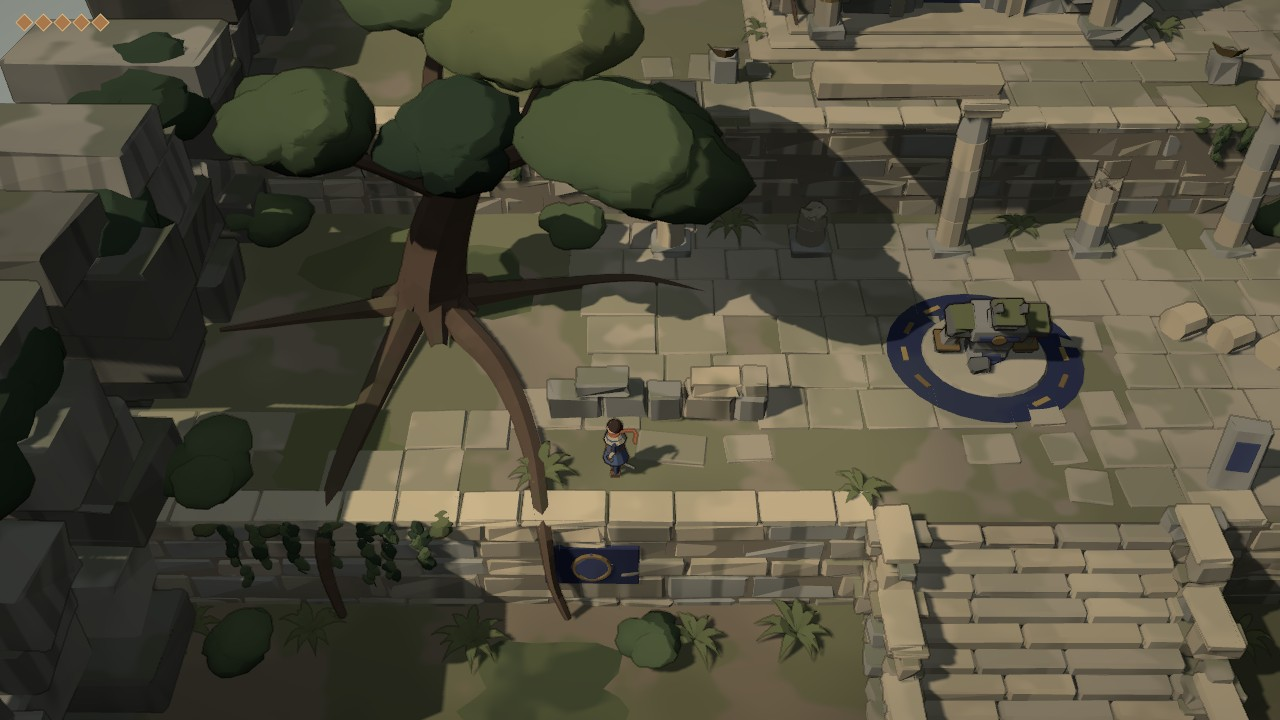
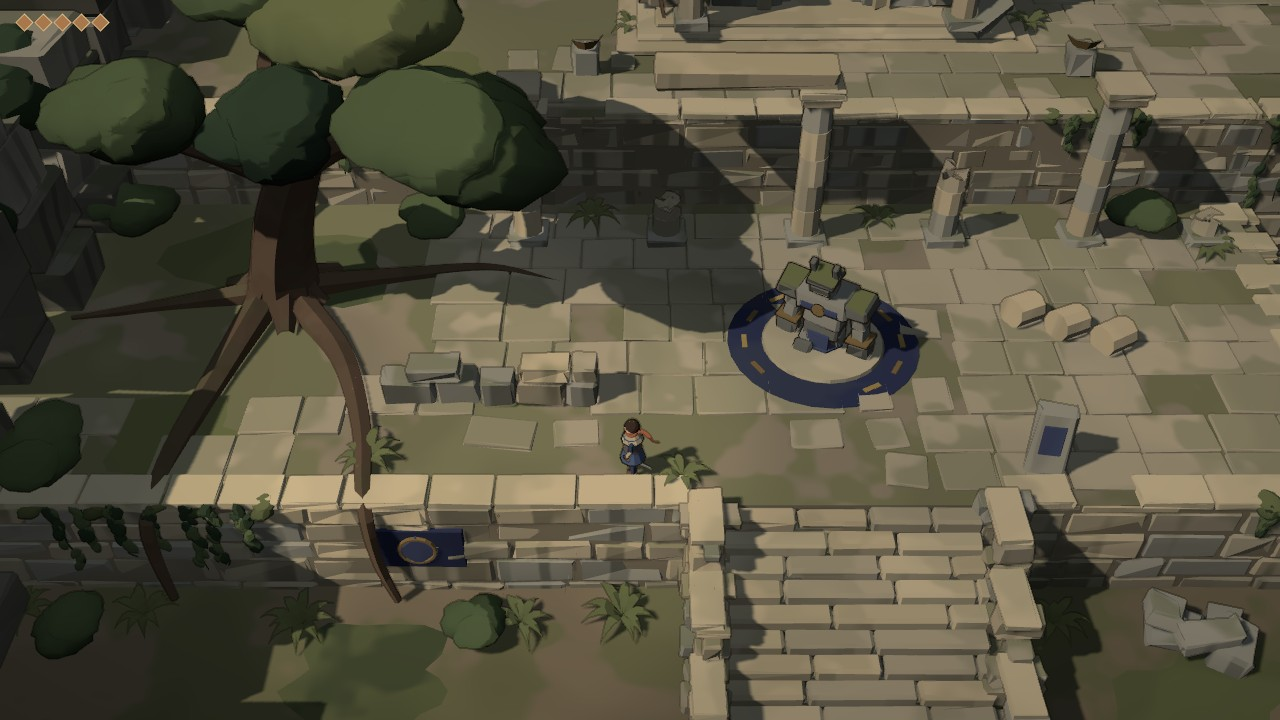
bell_muted_cel3d_01: hero pass 3 — authored shrine portal/collapse, light nudge, before/after captures, verdict
Claude-Session: https://claude.ai/code/session_01JKQiVz1qhZ6mWnVtESc2ft

diff --git a/experiments/bell_muted_cel3d_01/src/level.js b/experiments/bell_muted_cel3d_01/src/level.js
@@ -156,6 +156,39 @@ export function buildLevel(scene) {
     B.ground.add(g, mat4(x, y + 0.025, z, 0, rot, 0), tint(color, 0.05));
   }
 
+  // Extruded hand-drawn profile (front view, x/y) facing +z, centred on z
+  function slabXY(batch, pts, depth, x, y, z, color, rz = 0) {
+    const g = new THREE.ExtrudeGeometry(new THREE.Shape(pts.map(([a, b]) => new THREE.Vector2(a, b))), { depth, bevelEnabled: true, bevelThickness: 0.03, bevelSize: 0.03, bevelSegments: 1 });
+    g.translate(0, 0, -depth / 2);
+    batch.add(g, mat4(x, y, z, 0, 0, rz), color);
+  }
+  // Polygonal masonry face: wandering bed lines + slanted joints → irregular quads
+  function polyWall(x0, x1, y0, y1, zf, skip, topDrop) {
+    const bed = (row, x) => row === 0 ? 0 : 0.18 * Math.sin(x * 1.3 + row * 2.1) + 0.1 * Math.sin(x * 3.1 + row);
+    let rowY = y0, row = 0;
+    while (rowY < y1 - 0.2) {
+      const h = Math.min(y1 - rowY, rr(0.9, 1.35));
+      let xa = x0, xaT = x0;
+      while (xa < x1 - 0.05) {
+        const w = Math.min(rr(1.0, 2.1), x1 - xa);
+        let xb = xa + w, xbT = Math.min(x1, xb + rr(-0.35, 0.35));
+        if (x1 - xb < 0.5) { xb = x1; xbT = x1; }
+        const yA = rowY + bed(row, xa), yB = rowY + bed(row, xb);
+        const top = Math.min(y1, rowY + h);
+        const tA = top + bed(row + 1, xaT) - topDrop(xaT), tB = top + bed(row + 1, xbT) - topDrop(xbT);
+        const cx = (xa + xb + xaT + xbT) / 4, cy = (yA + yB + tA + tB) / 4;
+        if (!skip(cx, cy) && tA - yA > 0.25 && tB - yB > 0.25) {
+          const k = Math.min(1, (cy - y0) / (y1 - y0));
+          const col = new THREE.Color(pick([PAL.limeCool, PAL.limestone, 0xa89c82, 0x9a9584])).lerp(new THREE.Color(PAL.limeDark), (1 - k) * 0.35);
+          const sh = [[xa - cx + 0.03, yA - cy + 0.03], [xb - cx - 0.03, yB - cy + 0.03], [xbT - cx - 0.03, tB - cy - 0.03], [xaT - cx + 0.03, tA - cy - 0.03]];
+          slabXY(B.stone, sh, 0.85, cx, cy, zf - 0.42 + rr(0.0, 0.08), tint(col, 0.05), rr(-0.02, 0.02));
+        }
+        xa = xb; xaT = xbT;
+      }
+      rowY += h; row++;
+    }
+  }
+
   function pillar(x, y, z, h, { r = 0.42, broken = false, gold = false, cap = true, batch = B.stoneClean } = {}) {
     // plinth
     B.stone.add(stoneBlock(r * 2.7, 0.35, r * 2.7, { jitter: 0.05, chip: 0.4 }), mat4(x, y + 0.17, z), tint(PAL.limeCool));
@@ -376,23 +409,38 @@ export function buildLevel(scene) {
     }
     const P0 = T0 + 0.66;
     // façade wings (heavy coursing, larger blocks low down)
-    const wall = (from, to, y0, y1, at = F, opts = {}) => masonry({ axis: 'x', at, out: 1, from, to, y0, y1, depth: 0.9, coping: false, colors: [PAL.limeCool, PAL.limestone, 0xa89c82], len: [1.2, 2.4], course: [0.7, 1.0], ...opts });
-    wall(-7.5, -4.1, P0, P0 + 6.2);
-    wall(0.1, 3.5, P0, P0 + 6.2);
-    wall(-4.1, 0.1, P0 + 4.6, P0 + 6.2);
-    masonry({ axis: 'z', at: -7.5, out: -1, from: -23.8, to: F, y0: P0, y1: P0 + 6.2, coping: false, depth: 0.9 });
+    // Façade: polygonal "cyclopean" masonry (slanted joints, wandering bed lines,
+    // big irregular blocks) — deliberately unlike the courtyard's coursed walls.
+    const inPortal = (cx, cy) => {
+      if (cx > -4.55 && cx < 0.55 && cy < P0 + 4.95) return true;              // jambs + lintel
+      const ty = cy - (P0 + 4.85), half = 1.75 - ty * 1.15;                    // relieving triangle
+      return ty > -0.1 && ty < 1.55 && Math.abs(cx - sx) < half + 0.15;
+    };
+    const crownBreak = (cx) => cx > 0.9 ? (cx - 0.9) * 0.55 : 0;                // right side collapsed
+    polyWall(-7.5, 3.5, P0, P0 + 6.25, F, inPortal, crownBreak);    masonry({ axis: 'z', at: -7.5, out: -1, from: -23.8, to: F, y0: P0, y1: P0 + 6.2, coping: false, depth: 0.9 });
     masonry({ axis: 'z', at: 3.5, out: 1, from: -23.8, to: F, y0: P0, y1: P0 + 6.2, coping: false, depth: 0.9 });
     B.stone.add(new THREE.BoxGeometry(10.6, 6.2, 4.6), mat4(sx, P0 + 3.1, -21.4), PAL.limeDark);
     col.box(-7.5, -4.1, -24, F, T0, T0 + 14);
     col.box(0.1, 3.5, -24, F, T0, T0 + 14);
     col.box(-4.1, 0.1, -24, -18.7, T0, T0 + 14);
-    // stepped portal: three nested frames receding into darkness
-    for (let k = 0; k < 3; k++) {
-      const hw = 2.1 - k * 0.32, top = P0 + 4.6 - k * 0.4, z = F - 0.05 - k * 0.3;
-      B.stoneClean.add(stoneBlock(0.5, top - P0, 0.6, { chip: 0.25 }), mat4(sx - hw + 0.25, (P0 + top) / 2, z), tint(k ? PAL.limeCool : PAL.limestone, 0.04));
-      B.stoneClean.add(stoneBlock(0.5, top - P0, 0.6, { chip: 0.25 }), mat4(sx + hw - 0.25, (P0 + top) / 2, z), tint(k ? PAL.limeCool : PAL.limestone, 0.04));
-      B.stoneClean.add(stoneBlock(hw * 2, 0.55, 0.6, { chip: 0.2 }), mat4(sx, top - 0.27, z), tint(k ? 0xa99d84 : 0xc3b596, 0.04));
-    }
+    // Battered monolithic portal: tapering jambs, one huge cracked lintel.
+    const JB = [[-0.6, 0], [0.55, 0], [0.42, 4.0], [-0.55, 4.0]];             // left jamb profile (inner edge leans in)
+    slabXY(B.stone, JB, 0.95, -3.75, P0, F - 0.05, tint(0xb0a487, 0.03));
+    slabXY(B.stone, JB.map(([x, y]) => [-x, y]), 0.95, -0.25, P0, F - 0.05, tint(0xa59a80, 0.03));
+    // dark reveals: the inner faces of the opening fall into near-black
+    B.trim.add(new THREE.BoxGeometry(0.12, 4.0, 0.9), mat4(-3.15, P0 + 2.0, F - 0.45, 0, 0, -0.03), 0x2a2f2e);
+    B.trim.add(new THREE.BoxGeometry(0.12, 4.0, 0.9), mat4(-0.85, P0 + 2.0, F - 0.45, 0, 0, 0.03), 0x2a2f2e);
+    B.trim.add(new THREE.BoxGeometry(2.4, 0.12, 0.9), mat4(sx, P0 + 3.95, F - 0.45), 0x222726);
+    // lintel in two pieces: the right half has dropped and shifted along an old crack
+    slabXY(B.stone, [[-2.55, 0], [-0.1, 0], [0.05, 0.85], [-2.45, 0.9]], 1.1, sx, P0 + 4.0, F - 0.02, tint(0xbcae8f, 0.02));
+    slabXY(B.stone, [[0.0, 0], [2.5, 0.05], [2.4, 0.86], [0.12, 0.84]], 1.1, sx + 0.05, P0 + 3.94, F + 0.04, tint(0xb2a588, 0.02), -0.035);
+    // relieving triangle above the lintel: indigo field, bronze sun disc, carved rays
+    slabXY(B.trim, [[-1.6, 0], [1.6, 0], [0, 1.45]], 0.3, sx, P0 + 4.9, F - 0.12, PAL.indigoDeep);
+    slabXY(B.trim, [[-1.35, 0.08], [1.35, 0.08], [0, 1.25]], 0.3, sx, P0 + 4.9, F - 0.05, PAL.indigo);
+    B.gold.add(new THREE.CylinderGeometry(0.3, 0.3, 0.08, 14), mat4(sx, P0 + 5.36, F + 0.12, Math.PI / 2, 0, 0), PAL.gold);
+    for (let i = 0; i < 5; i++) { const a = 0.35 + i * 0.6; B.gold.add(new THREE.BoxGeometry(0.3, 0.05, 0.05), mat4(sx + Math.cos(a) * 0.52, P0 + 5.36 + Math.sin(a) * 0.44, F + 0.1, 0, 0, a), i === 2 ? PAL.gold : PAL.bronze); }
+    // worn threshold slab, darker and damp
+    B.stone.add(stoneBlock(2.6, 0.12, 1.3, { chip: 0.3, bevel: 0.3 }), mat4(sx, P0 + 0.04, F + 0.15), tint(0x8b8573));
     // dark interior volume behind the frames (reads as depth, not a painted door)
     B.trim.add(new THREE.BoxGeometry(3.0, 3.6, 0.2), mat4(sx, P0 + 1.8, -18.75), 0x262b2c);
     // sealed door slab: deep indigo with bronze seal
@@ -400,15 +448,20 @@ export function buildLevel(scene) {
     B.gold.add(new THREE.TorusGeometry(0.62, 0.07, 6, 24), mat4(sx, P0 + 2.0, -18.37), PAL.gold);
     B.gold.add(new THREE.TorusGeometry(0.3, 0.05, 6, 16), mat4(sx, P0 + 2.0, -18.37), PAL.bronze);
     B.gold.add(new THREE.BoxGeometry(0.06, 2.8, 0.04), mat4(sx, P0 + 1.7, -18.38), PAL.bronze);
-    // relief panel above the portal: indigo field, bronze sun-disc and rays
-    B.trim.add(new THREE.BoxGeometry(3.6, 1.2, 0.14), mat4(sx, P0 + 5.35, F + 0.05), PAL.indigo);
-    B.gold.add(new THREE.CylinderGeometry(0.34, 0.34, 0.08, 14), mat4(sx, P0 + 5.35, F + 0.14, Math.PI / 2, 0, 0), PAL.gold);
-    for (let i = 0; i < 8; i++) { const a = (i / 8) * Math.PI * 2; B.gold.add(new THREE.BoxGeometry(0.36, 0.06, 0.05), mat4(sx + Math.cos(a) * 0.62, P0 + 5.35 + Math.sin(a) * 0.42, F + 0.14, 0, 0, a), PAL.bronze); }
-    // cornice + corbelled stepped crown
-    B.stoneClean.add(stoneBlock(11.6, 0.45, 6.8, { chip: 0.3 }), mat4(sx, P0 + 6.42, -20.7), tint(PAL.limestone, 0.03));
-    const crown = [[9.6, 0.7, 5.6], [7.6, 0.7, 4.6], [5.4, 0.75, 3.6], [3.0, 0.8, 2.4]];
-    let cy = P0 + 6.65;
-    crown.forEach(([w, h, d], i) => { B.stoneClean.add(stoneBlock(w, h, d, { chip: 0.35 }), mat4(sx + (i === 3 ? 0.2 : 0), cy + h / 2, -20.8, 0, 0, i === 3 ? 0.05 : 0), tint(i % 2 ? PAL.limeCool : 0xb3a68a, 0.04)); cy += h; });
+    // cornice: intact on the left, broken off on the right; mossy ledges (B.stone = moss + streaks)
+    slabXY(B.stone, [[-5.8, 0], [1.4, 0], [1.1, 0.42], [-5.85, 0.48]], 6.8, sx, P0 + 6.2, -20.7, tint(PAL.limestone, 0.03));
+    slabXY(B.stone, [[1.4, 0], [3.0, 0.05], [2.7, 0.3], [1.6, 0.38]], 6.2, sx, P0 + 6.05, -20.8, tint(0xa99d84, 0.03), -0.06);
+    // corbelled crown: stepped on the left, collapsed on the right (uneven tops)
+    slabXY(B.stone, [[-4.9, 0], [0.9, 0], [0.4, 0.62], [-4.8, 0.7]], 5.4, sx, P0 + 6.66, -20.9, tint(PAL.limeCool, 0.03));
+    slabXY(B.stone, [[-3.9, 0], [-0.4, 0], [-0.9, 0.7], [-3.7, 0.66]], 4.4, sx, P0 + 7.32, -21.0, tint(0xb3a68a, 0.03));
+    slabXY(B.stone, [[-2.9, 0], [-1.3, 0], [-1.6, 0.6], [-2.7, 0.75]], 3.0, sx, P0 + 7.98, -21.1, tint(PAL.limeCool, 0.03));
+    // a crown stone slid off and lodged on the broken cornice end; two more fell to the terrace
+    B.stone.add(stoneBlock(1.3, 0.6, 1.0, { chip: 0.6 }), mat4(1.8, P0 + 6.6, -17.9, 0.2, 0.5, -0.45), tint(PAL.limeCool));
+    B.stone.add(stoneBlock(1.2, 0.65, 0.9, { chip: 0.7 }), mat4(4.3, T0 + 0.33, -15.0, 0.1, 0.9, 0.2), tint(0xa99d84));
+    B.stone.add(stoneBlock(0.8, 0.45, 0.7, { chip: 0.7 }), mat4(5.3, T0 + 0.22, -14.0, 0.3, 0.2, -0.3), tint(PAL.limeCool));
+    col.box(3.7, 4.9, -15.5, -14.5, T0, T0 + 0.7);
+    // damp: dark mineral stains running down from the cornice drip line
+    for (const [x, len] of [[-6.6, 2.6], [-5.0, 1.6], [-1.2, 1.1], [1.3, 3.2], [2.9, 2.2]]) B.trim.add(new THREE.BoxGeometry(0.35, len, 0.04), mat4(x, P0 + 6.15 - len / 2, F + 0.1), 0x5f6158);
     // broken capstone fallen onto the plinth
     B.stoneClean.add(stoneBlock(1.4, 0.7, 1.1, { chip: 0.6 }), mat4(2.9, T0 + 1.0, -16.6, 0.3, 0.6, 0.4), tint(PAL.limeCool));
     col.box(2.2, 3.6, -17.2, -16.0, T0, T0 + 1.3);

diff --git a/experiments/bell_muted_cel3d_01/src/main.js b/experiments/bell_muted_cel3d_01/src/main.js
@@ -23,19 +23,19 @@ const post = new Post(renderer, W() * pr, H() * pr);
 
 // ---------------------------------------------------------------- scene
 const scene = new THREE.Scene();
-const SKY = new THREE.Color(0x9aa29a);
+const SKY = new THREE.Color(0x8f9a98);
 scene.background = SKY;
-scene.fog = new THREE.Fog(0x8f988f, 34, 95);
+scene.fog = new THREE.Fog(0x87918f, 32, 92);
 
 // restrained key light from the upper-left (west, slightly south) + cool sky fill
-const sun = new THREE.DirectionalLight(0xfff0d8, 2.7);
-const SUN_DIR = new THREE.Vector3(-0.72, 0.8, 0.36).normalize();
+const sun = new THREE.DirectionalLight(0xffe9cc, 2.5); // a little lower and warmer: late, quieter light
+const SUN_DIR = new THREE.Vector3(-0.78, 0.72, 0.34).normalize();
 sun.castShadow = true;
 sun.shadow.mapSize.set(2048, 2048);
 Object.assign(sun.shadow.camera, { left: -24, right: 24, top: 24, bottom: -24, near: 1, far: 90 });
 sun.shadow.bias = -0.0006; sun.shadow.normalBias = 0.04; sun.shadow.radius = 3;
 scene.add(sun, sun.target);
-const hemi = new THREE.HemisphereLight(0xc3cbd0, 0x5e5848, 1.05);
+const hemi = new THREE.HemisphereLight(0xaebcc4, 0x55524a, 1.0); // cooler shelter fill
 scene.add(hemi);
 
 // ---------------------------------------------------------------- world
@@ -111,7 +111,7 @@ function onDebugKey(code) {
   else if (code === 'BracketRight') CAM.dist = Math.min(48, CAM.dist + 2);
   else if (code === 'Minus') CAM.fov = Math.max(18, CAM.fov - 3);
   else if (code === 'Equal') CAM.fov = Math.min(60, CAM.fov + 3);
-  else if (code === 'KeyC') GLOBAL.uCloud.value = GLOBAL.uCloud.value > 0 ? 0 : 0.24;
+  else if (code === 'KeyC') GLOBAL.uCloud.value = GLOBAL.uCloud.value > 0 ? 0 : 0.27;
   else if (code === 'KeyH') document.getElementById('help').classList.toggle('hide');
   else if (code === 'KeyR') reset();
   updateHud();

diff --git a/experiments/bell_muted_cel3d_01/src/materials.js b/experiments/bell_muted_cel3d_01/src/materials.js
@@ -47,9 +47,9 @@ export const STATE = { toon: true, outlines: true, shadows: true, grade: true };
 // Shared uniforms (time, height falloff) for all painted materials
 export const GLOBAL = {
   uTime: { value: 0 },
-  uLowTint: { value: new THREE.Color(0x56656a) },   // what deep/low areas drift toward
+  uLowTint: { value: new THREE.Color(0x4f6066) },   // what deep/low areas drift toward
   uLowRange: { value: new THREE.Vector2(-1.2, 1.6) },
-  uCloud: { value: 0.24 },                            // large soft shade zones (authored value composition)
+  uCloud: { value: 0.27 },                            // large soft shade zones (authored value composition)
 };
 
 // 3-band toon ramp with slightly soft transitions (avoids the hard anime edge)

diff --git a/experiments/bell_muted_cel3d_01/docs/RESUME_MUTED_CEL3D.md b/experiments/bell_muted_cel3d_01/docs/RESUME_MUTED_CEL3D.md
@@ -1,6 +1,6 @@
 # RESUME — bell_muted_cel3d_01
 
-## HERO-ASSET REFINEMENT PASS (in progress — read this first)
+## HERO-ASSET REFINEMENT PASS (complete — read this first)
 Goal: can a few hand-authored hero assets + art direction change the read of the whole scene?
 Scope rules: no new level/enemy/systems/traversal; keep 42° camera, layout, palette, controls,
 toon system, outline strength, shrine destination.
@@ -28,13 +28,41 @@ Benchmark captures: `TAG=before|after NODE_PATH=$(npm root -g) node tools/captur
    `src/main.js`: canopy fade radius 6.4 around (−14.2, −6.4).
    Verdict: biggest visible change so far — designed tree silhouette with negative space; tiers
    are slightly "stone-pine/acacia", which suits ancient-Mediterranean mood.
-3. **Shrine — NEXT.** Then material/value + lighting mood pass, then `TAG=after` capture + verdict.
+3. **Shrine — DONE.** `src/level.js` shrine block: new helpers `slabXY()` (extruded hand-drawn
+   front profile) and `polyWall()` (polygonal "cyclopean" masonry: wandering bed lines, slanted
+   joints, skip mask for the portal, `topDrop` for the collapsed right side). Replaced coursed
+   wings + 3 nested frames + slab crown with: battered monolithic jambs, near-black inner reveals,
+   two-piece cracked lintel (right half dropped/shifted), indigo relieving triangle with bronze sun
+   disc + rays, worn damp threshold, cornice broken on the right, stepped crown collapsed on the
+   right, one crown stone lodged on the cornice end + two fallen on the terrace (collider at
+   x 3.7..4.9, z −15.5..−14.5), dark mineral stain strips under the drip line. Door/seal/glow kept.
+4. **Light/value nudge — DONE (small).** `src/main.js`: sun ffe9cc 2.5 from (−0.78, 0.72, 0.34),
+   hemi aebcc4/55524a 1.0, sky 8f9a98, fog 87918f 32–92. `src/materials.js`: uLowTint 4f6066,
+   uCloud 0.27. Quieter/cooler; not darker overall.
 
+### Captures
+`docs/screenshots/refine/before-*` (pre-pass; before-03 re-shot from commit 2e638b0 at the
+same position as after-03), `after-*`, and `cmp-*` (before above / after below, half size).
+Benchmark view = `cmp-01-hero-stair-courtyard.jpg`.
 
-Status: **all milestones (0–4) reached; the handoff is complete.** The prototype runs, the route
-is fully traversable, combat with the guardian works (wake → telegraphed slam → hits → crumble),
-and the screenshot set has been captured. The visual verdict and its reasoning are in
-`README.md` under "Candid visual assessment".
+### Verdict of this pass (honest)
+- The three hero assets **did** change their own read: the shrine now looks like a specific old
+  place (biggest single gain), the tree reads as a designed tiered silhouette with branch logic
+  and negative space, the guardian reads as a carved shrine-sentinel instead of a robot.
+- They did **not** materially change the read of the whole frame. At gameplay scale ~70% of
+  the image is still flat, evenly-lit paving and coursed modular walls, and that is what still
+  says "clean low-poly indie 3D". The guardian is too small on screen to set the style.
+- Biggest difference: the shrine (identity) > tree (silhouette language, also adopted by shrubs) >
+  guardian (only visible close up).
+- Full 3D is promising enough for a *narrow* Godot proof only if that proof is about surface
+  authoring (painted/textured ground + walls), not about porting these procedural assets.
+- Single remaining visual weakness: **the ground/wall surfaces** — unpainted flat planes with
+  procedural tint that occupy most of the frame.
+
+### Next step (if continued)
+One test only: hand-paint (or texture) the courtyard paving and the retaining wall — joints,
+edge wear, worn route, damp — and re-shoot cmp-01. If the frame still reads generic after that,
+full 3D muted Bell lacks the identity and the hybrid/sprite direction should win.
 
 ## Goal
 

diff --git a/experiments/bell_muted_cel3d_01/README.md b/experiments/bell_muted_cel3d_01/README.md
@@ -155,4 +155,23 @@ That work is a question of art production rather than technology. Recreate this 
 shading model in Godot, but only alongside a small test of hand-modelled assets. Don't port this
 procedural geometry wholesale.
 
+## Hero-asset refinement pass
+
+Before/after comparisons (before on top, after below) are in `docs/screenshots/refine/cmp-*.jpg`.
+
+- **Guardian.** Rebuilt from hand-drawn, asymmetric extruded silhouettes. It has a recessed head
+  niche, a broken right shoulder with a fern growing from the break, a seal motif and localized
+  moss.
+- **Hero tree.** Rebuilt as four flat, scalloped canopy tiers on a visible limb structure, with
+  gaps between the tiers. Shrubs and the small trees now use the same tier shapes.
+- **Shrine.** The façade is now polygonal masonry. The portal is battered, the lintel is cracked
+  and has dropped, and a relieving triangle above it carries a sun relief. The right side of the
+  crown has collapsed, with fallen stones on the terrace and damp stains below the cornice.
+- **Light.** A small shift to a quieter, cooler light.
+
+**Verdict.** Each asset now reads as authored, and the shrine gained the most. The whole frame is
+still dominated by flat paving and coursed walls, though, and that is what keeps it looking like
+low-poly indie 3D. The next test should be surface authoring on the ground and walls, not more
+hero props.
+
 See `docs/RESUME_MUTED_CEL3D.md` for the full handoff.
